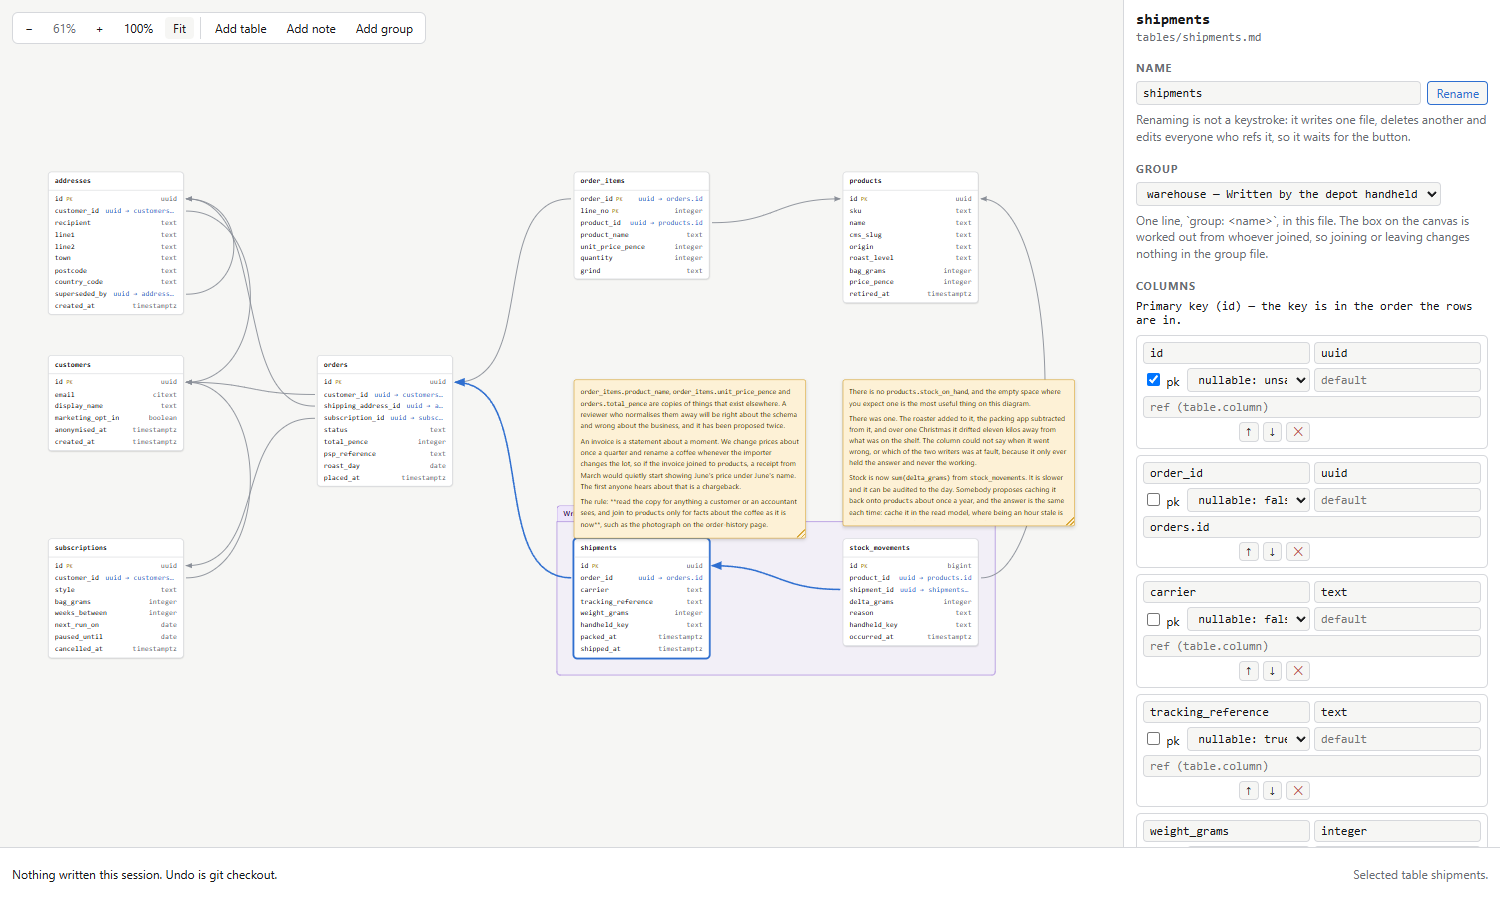
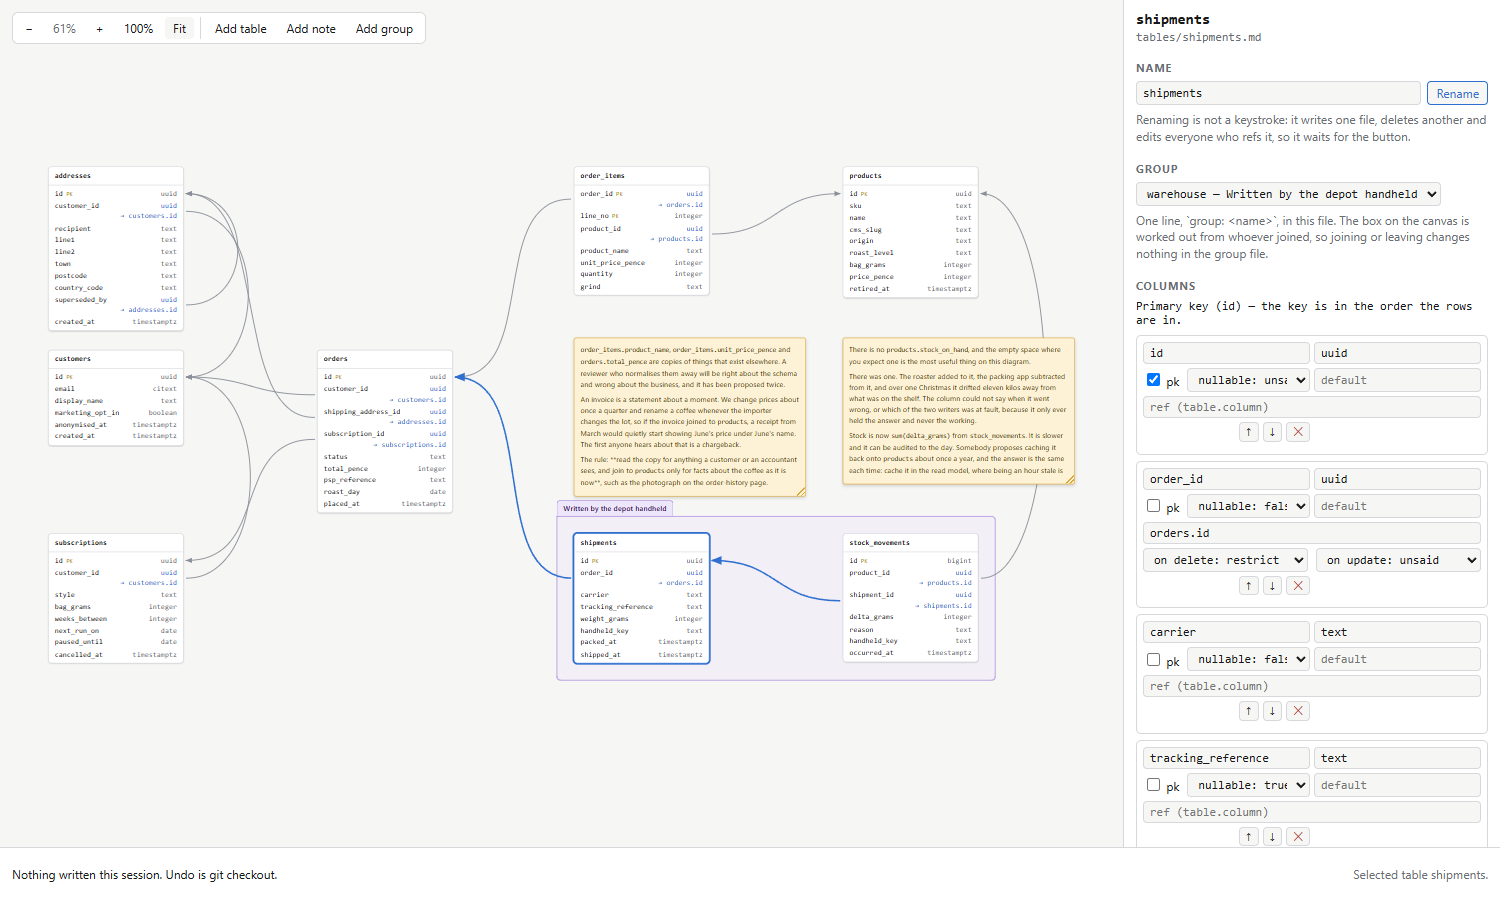
dbmd-joa: the headline picture stops showing a defect we fixed (#179)
README.md opens by saying the picture and the file are the same thing, and the
picture had drifted three changes behind the file. It showed refs cut short as
`customer_id uuid -> customers...`, which is the exact behaviour ADR 0055
replaced, and a ref naming a column rather than a table is the whole argument
for this tool over a diagram. The group read `Wr` because a note sat over it.
The inspector had no referential-action controls, so the one screenshot of the
editor did not show a thing the editor does.

Retaken from `git archive HEAD examples/shop` served out of the scratchpad, so
it is the shipped model rather than anybody's working tree, framed as before at
1500x900 and 61% with `shipments` selected, because the prose beside it says
the panel is editing `examples/shop/tables/shipments.md` and then quotes that
file. Refs now sit on their own line and none is cut, the group reads `Written
by the depot handheld` in full, and `order_id` carries `on delete: restrict`
and `on update: unsaid`. The footer still reads "Nothing written this session",
and the served copy was byte-identical to `examples/shop` afterwards.

The alt text is rewritten to match, because it is the only version of this
picture some readers get and two of the things it named had moved.

Claude-Session: https://claude.ai/code/session_01Dk72rgRy5otKkGtEUmevnZ

diff --git a/README.md b/README.md
@@ -19,7 +19,7 @@ there is no release cadence, and issues and pull requests may sit.
 
 ## One picture and one file, and they are the same thing
 
-![The dbmd studio: eight tables of the examples/shop model on a canvas with two amber sticky notes and a violet box labelled "Written by the depot handheld" drawn round two of the tables, the shipments table selected and outlined with its relationships highlighted, and an editing panel on the right headed "shipments / tables/shipments.md" showing its name, its group and its columns](docs/media/studio-shipments.png)
+![The dbmd studio: eight tables of the examples/shop model on a canvas with two amber sticky notes and a violet box labelled "Written by the depot handheld" drawn round shipments and stock_movements, every foreign key written on a line of its own under the column that holds it so no reference is cut short, the shipments table selected and outlined with its relationships to orders and stock_movements highlighted, and an editing panel on the right headed "shipments / tables/shipments.md" showing its name, its group and its columns, where order_id carries its reference to orders.id above an "on delete: restrict" and an "on update: unsaid" control](docs/media/studio-shipments.png)
 
 That is `dbmd studio` open on [`examples/shop`](examples/shop), a coffee
 roastery's order book. `shipments` is selected, so the panel on the right is
